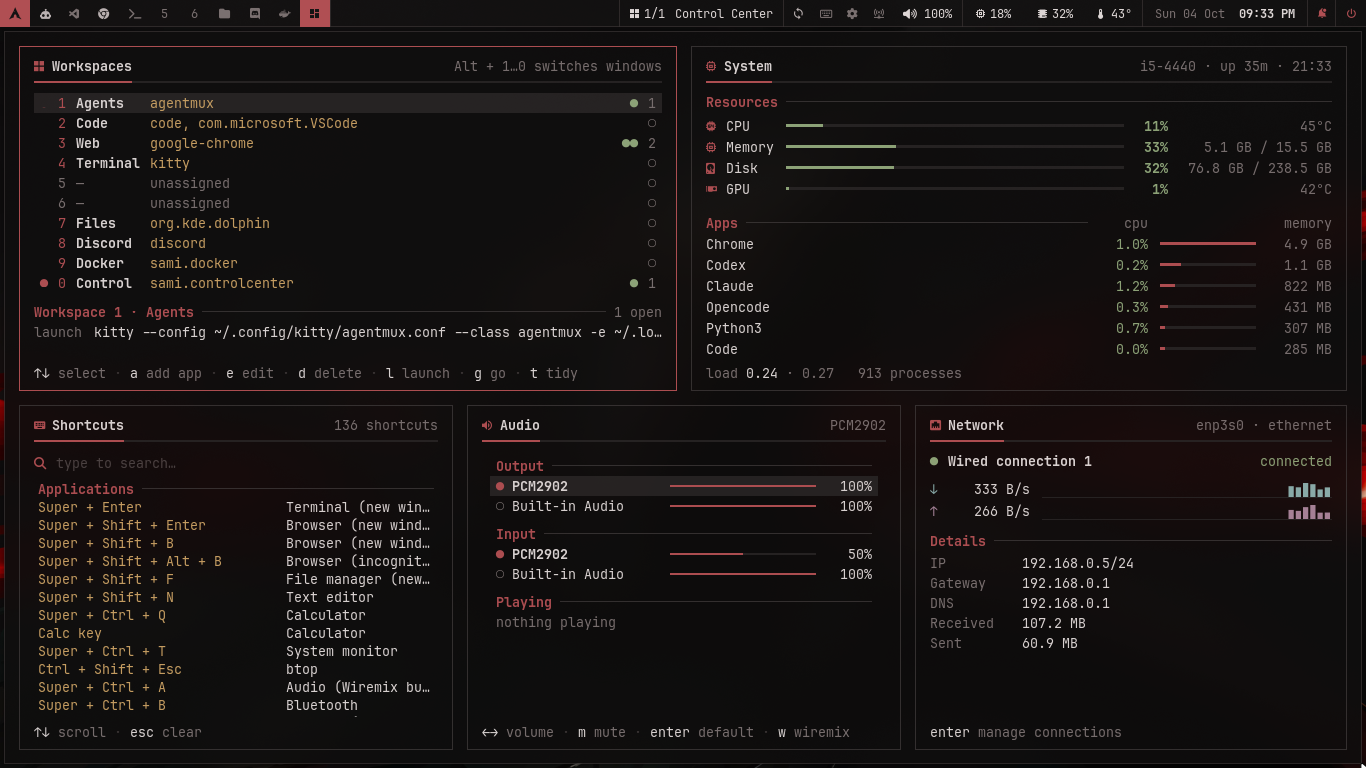
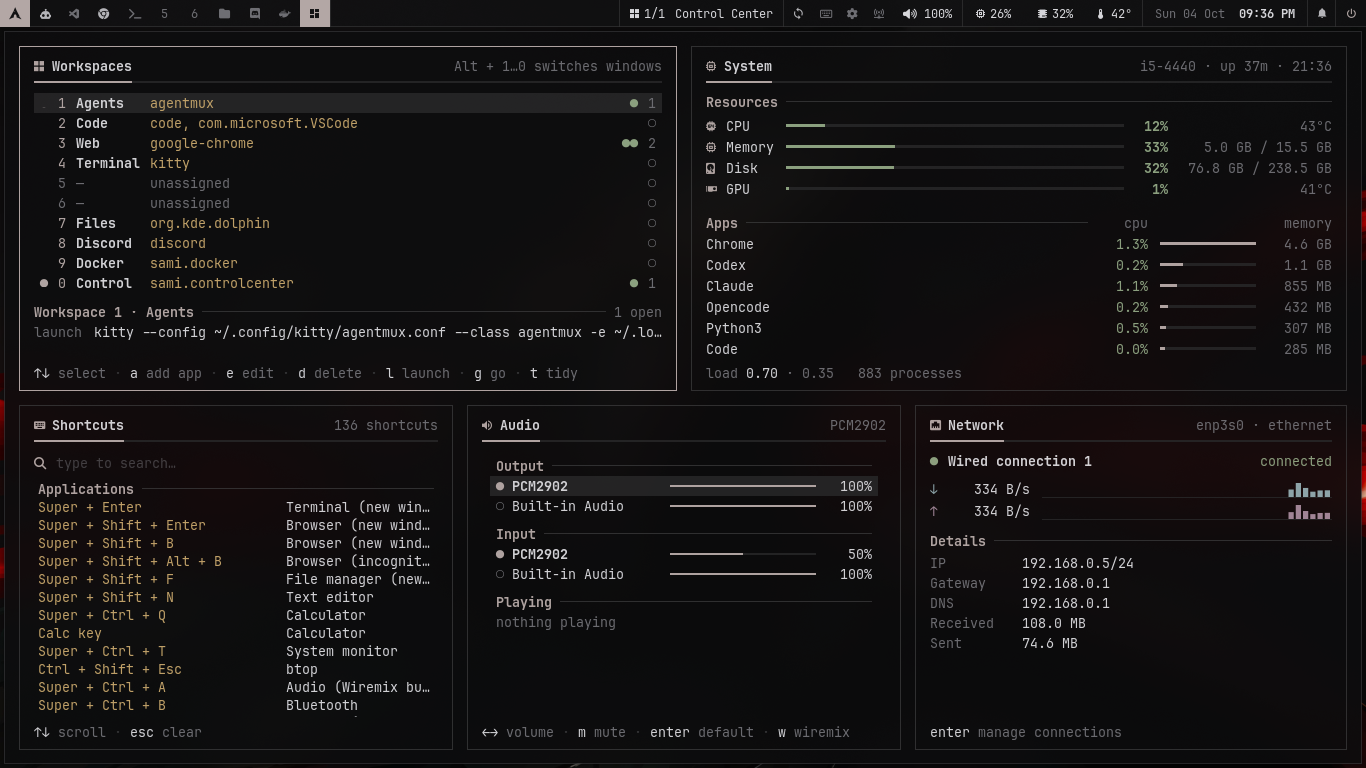
theme: Crimson as graphite with a silver accent; red only for errors and alerts

diff --git a/MANUAL.md b/MANUAL.md
@@ -82,7 +82,7 @@ any other file: the other PC follows after `dotsync`).
 | Theme | |
 |---|---|
 | Tokyo Night | the original: deep blue-black, a soft blue accent (`#6b8fe0`, a bit darker than stock) |
-| Crimson | neutral charcoal and black, a muted blood-red accent (`#b04f53`), soft olive and amber: after the bloodborne wallpaper |
+| Crimson | graphite and black with a quiet silver accent (`#b3a7a5`); red (`#c0454b`) only where something needs you (errors, alerts, critical levels), so the bloodborne wallpaper carries the red |
 
 **How it works.** Every file in this repo is written in Tokyo Night's colours, by hand, as before.
 A theme is `config/themes/<id>/theme.json`: one colour for each of Tokyo Night's 32 roles (base,

diff --git a/README.md b/README.md
@@ -94,7 +94,7 @@ Riced after [Omarchy](https://github.com/basecamp/omarchy), with tools of its ow
   </tr>
   <tr>
     <td align="center"><b>Tokyo Night</b><br><sub>Deep blue-black with a soft blue accent.</sub></td>
-    <td align="center"><b>Crimson</b><br><sub>Charcoal and black with a blood-red accent.</sub></td>
+    <td align="center"><b>Crimson</b><br><sub>Graphite and black, a silver accent; red only for alerts.</sub></td>
   </tr>
 </table>
 
